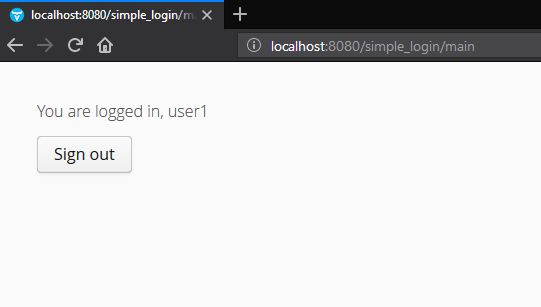
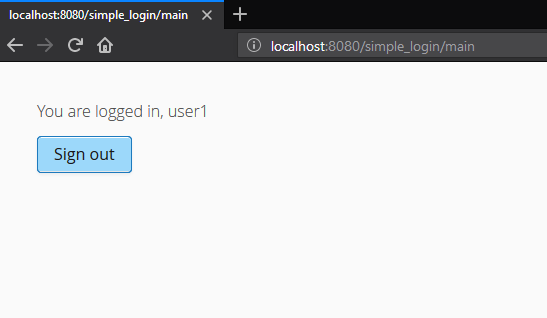
Add style sheets

Changed region(s): [[0.0, 0.0879, 1.0, 0.2052], [0.0591, 0.3225, 0.3845, 0.5863], [0.0, 0.0, 0.4732, 0.0879]]

diff --git a/src/main/webapp/VAADIN/themes/custom_theme/custom_theme.scss b/src/main/webapp/VAADIN/themes/custom_theme/custom_theme.scss
@@ -1,0 +1,15 @@
+/* A test of Vaadin UI styling based on the simple example here:
+   https://vaadin.com/docs/v8/framework/themes/themes-creating.html */
+
+/* Ignore the IntelliJ error sign for this import statement */
+@import "../valo/valo.scss";
+
+@mixin custom_theme {
+
+  @include valo;
+
+  .v-button {
+    background: #9cd8fa;
+    border-color: #1d7abe;
+  }
+}

diff --git a/src/main/webapp/VAADIN/themes/custom_theme/styles.scss b/src/main/webapp/VAADIN/themes/custom_theme/styles.scss
@@ -1,0 +1,6 @@
+@import "custom_theme";
+
+.custom_theme {
+
+  @include custom_theme;
+}

diff --git a/src/main/java/org/si/simple_login/vaadin/ViewNavigator.java b/src/main/java/org/si/simple_login/vaadin/ViewNavigator.java
@@ -1,5 +1,6 @@
 package org.si.simple_login.vaadin;
 
+import com.vaadin.annotations.Theme;
 import com.vaadin.navigator.PushStateNavigation;
 import com.vaadin.navigator.View;
 import com.vaadin.server.VaadinRequest;
@@ -34,6 +35,7 @@ import static org.si.simple_login.vaadin.ViewPaths.SIGN_UP;
 
 @SpringUI(path="simple_login")
 @PushStateNavigation
+@Theme("custom_theme")
 public class ViewNavigator extends UI {
 
     public static SpringNavigator navigator;

diff --git a/README.md b/README.md
@@ -58,7 +58,11 @@ For use of view navigation and Spring beans in Vaadin, their documentation and t
 https://vaadin.com/docs/v8/framework/application/application-architecture.html<br>
 https://vaadin.com/docs/v8/framework/advanced/advanced-navigator.html#advanced.navigator<br>
 https://vaadin.com/docs/v8/framework/articles/AccessControlForViews.html<br>
-https://vaadin.github.io/spring-tutorial/ 
+https://vaadin.github.io/spring-tutorial/
+
+For UI styling,
+https://vaadin.com/docs/v8/framework/themes/themes-overview.html<br>
+https://vaadin.com/docs/v8/framework/themes/themes-creating.html  
 
 For Spring configuration of authentication,<br>
 eparvan's post: https://stackoverflow.com/questions/42562893/could-not-autowire-no-beans-of-userdetailservice-type-found<br>
